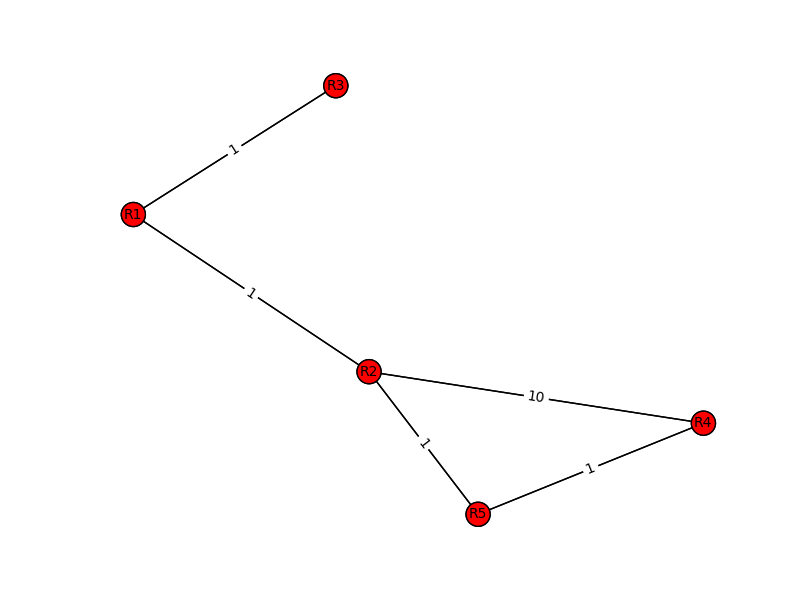
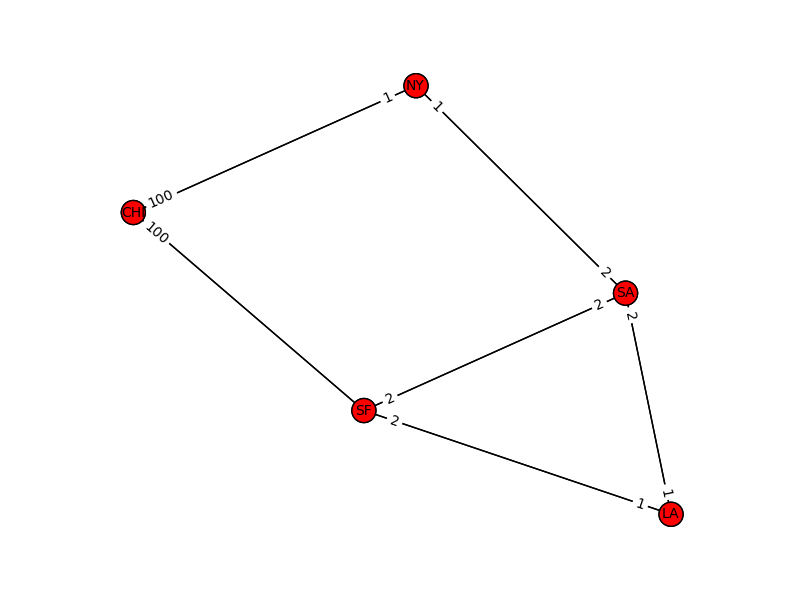
0.2 graph ok

diff --git a/lib_app.py b/lib_app.py
@@ -1,89 +1,108 @@
 
-# ver 0.1
+# ver 0.2
 #
 # changelog
 #
 # 0.1 start init
+# 0.2 graph ok
 #
-
-import networkx as nx
-import matplotlib.pyplot as plt
 
 class Discovery(object):
 
 	json = {
-		'R1': {
-			'rid' : '172.31.1.1',
+		'172.31.1.1': {
+			'hostname' : 'LA',
+			'os' : 'ios',
 			'path' : {
-				'R2': {
-					'int' : 'e0.12', 
+				'e0.12': {
+					'rid' : '172.31.2.2', 
+					'area' : '0',
 					'cost' : '1',
-					'net' : 'p2p'
+					'net' : 'point-to-point'
 				},
-				'R3': {
-					'int' : 'e0.13', 
+				'e0.13': {
+					'rid' : '172.31.3.3', 
+					'area' : '0',
 					'cost' : '1',
-					'net' : 'p2p'
+					'net' : 'point-to-point'
 				}
 			}
 		},
-		'R2': {
-			'rid' : '172.31.2.2',
+		'172.31.2.2': {
+			'hostname' : 'SA',
+			'os' : 'ios',
 			'path' : {
-				'R1': {
-					'int' : 'e0.12', 
-					'cost' : '1',
-					'net' : 'p2p'
+				'e0.12': {
+					'rid' : '172.31.1.1', 
+					'area' : '0',
+					'cost' : '2',
+					'net' : 'point-to-point'
 				},
-				'R4': {
-					'int' : 'e0.24', 
-					'cost' : '10',
-					'net' : 'p2p'
+				'e0.24': {
+					'rid' : '172.31.4.4', 
+					'area' : '0',
+					'cost' : '2',
+					'net' : 'point-to-point'
 				},
-				'R5': {
-					'int' : 'e0.25', 
-					'cost' : '1',
-					'net' : 'p2p'
+				'e0.23': {
+					'rid' : '172.31.3.3', 
+					'area' : '0',
+					'cost' : '2',
+					'net' : 'point-to-point'
 				}
 			}
 		},
-		'R3': {
-			'rid' : '172.31.3.3',
+		'172.31.3.3': {
+			'hostname' : 'SF',
+			'os' : 'xr',
 			'path' : {
-				'R1': {
-					'int' : 'e0.13', 
-					'cost' : '1',
-					'net' : 'p2p'
+				'e0.13': {
+					'rid' : '172.31.1.1', 
+					'area' : '0',
+					'cost' : '2',
+					'net' : 'point-to-point'
+				},
+				'e0.23': {
+					'rid' : '172.31.2.2', 
+					'area' : '0',
+					'cost' : '2',
+					'net' : 'point-to-point'
 				}
 			}
 		},
-		'R4': {
-			'rid' : '172.31.4.4',
+		'172.31.4.4': {
+			'hostname' : 'NY',
+			'os' : 'ios',
 			'path' : {
-				'R2': {
-					'int' : 'e0.24', 
-					'cost' : '10',
-					'net' : 'p2p'
-				},
-				'R5': {
-					'int' : 'e0.45', 
+				'e0.12': {
+					'rid' : '172.31.2.2', 
+					'area' : '0',
 					'cost' : '1',
-					'net' : 'p2p'
+					'net' : 'point-to-point'
+				},
+				'e0.18': {
+					'rid' : '172.31.5.5', 
+					'area' : '0',
+					'cost' : '1',
+					'net' : 'point-to-point'
 				}
 			}
 		},
-		'R5': {
-			'rid' : '172.31.5.5',
+		'172.31.5.5': {
+			'hostname' : 'CHI',
+			'os' : 'xr',
 			'path' : {
-				'R2': {
-					'int' : 'e0.25', 
-					'cost' : '1',
-					'net' : 'p2p'
+				'e0.12': {
+					'rid' : '172.31.4.4', 
+					'area' : '0',
+					'cost' : '100',
+					'net' : 'point-to-point'
 				},
-				'R4': {
-					'int' : 'e0.45', 
-					'cost' : '1',
-					'net' : 'p2p'
+				'e0.15': {
+					'rid' : '172.31.3.3', 
+					'area' : '0',
+					'cost' : '100',
+					'net' : 'point-to-point'
 				}
 			}
 		}

diff --git a/app.py b/app.py
@@ -1,9 +1,10 @@
 
-# ver 0.1
+# ver 0.2
 #
 # changelog
 #
 # 0.1 start init
+# 0.2 graph ok
 #
 
 from lib_app import Discovery
@@ -22,22 +23,24 @@ def main():
 
 	G = nx.Graph()
 	labels = {}
+	labels_edge = {}
 
-	for node in sorted(json):
-		print node,
-		G.add_node(node)
-		print json[node]['rid']
-		for path in json[node]['path']:
-			print '-', path,
-			labels[(node, path)] = json[node]['path'][path]['cost']
-			print json[node]['path'][path]
-			G.add_edge(node, path)
+	for local_remote_rid in sorted(json):
+		logging.info( '%s ( %s )' % ( json[local_remote_rid]['hostname'], local_remote_rid ) )
+		G.add_node(local_remote_rid)
+		for intf in json[local_remote_rid]['path']:
+			logging.info( '%s - %s' % ( intf, json[local_remote_rid]['path'][intf]) )
+			labels[local_remote_rid] = json[local_remote_rid]['hostname']
+			remote_remote_rid = json[local_remote_rid]['path'][intf]['rid']
+			labels_edge[(local_remote_rid, remote_remote_rid)] = json[local_remote_rid]['path'][intf]['cost']
+			G.add_edge(local_remote_rid, remote_remote_rid)
 
 	pos = nx.spring_layout(G)
 
 	nx.draw(G, pos)
-	nx.draw_networkx(G, pos, with_labels=True, font_size=10)
-	nx.draw_networkx_edge_labels(G, pos, with_labels=True, edge_labels=labels, font_size=10)
+	nx.draw_networkx(G, pos, labels=labels, font_size=10)
+
+	nx.draw_networkx_edge_labels(G, pos, with_labels=True, edge_labels=labels_edge, label_pos=0.9, font_size=10)
 
 	plt.savefig("path.png")
 
